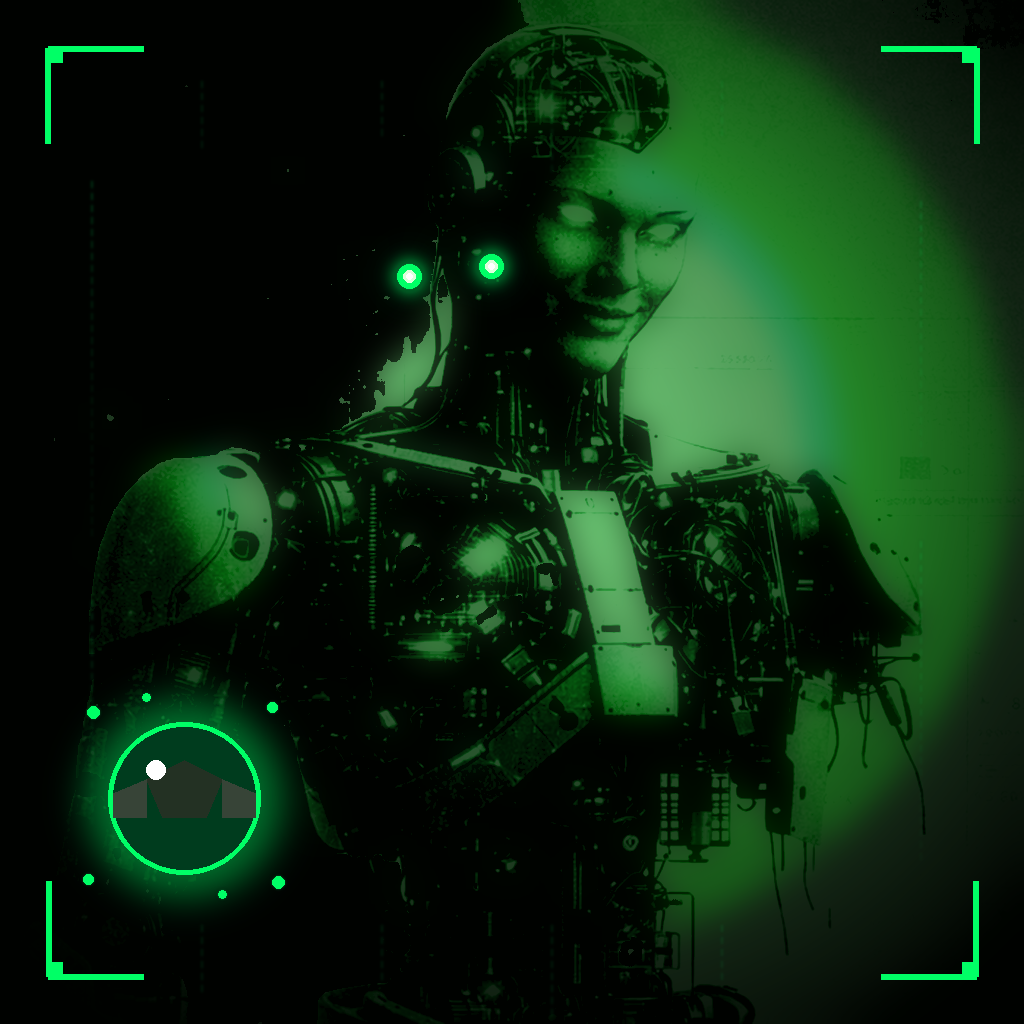
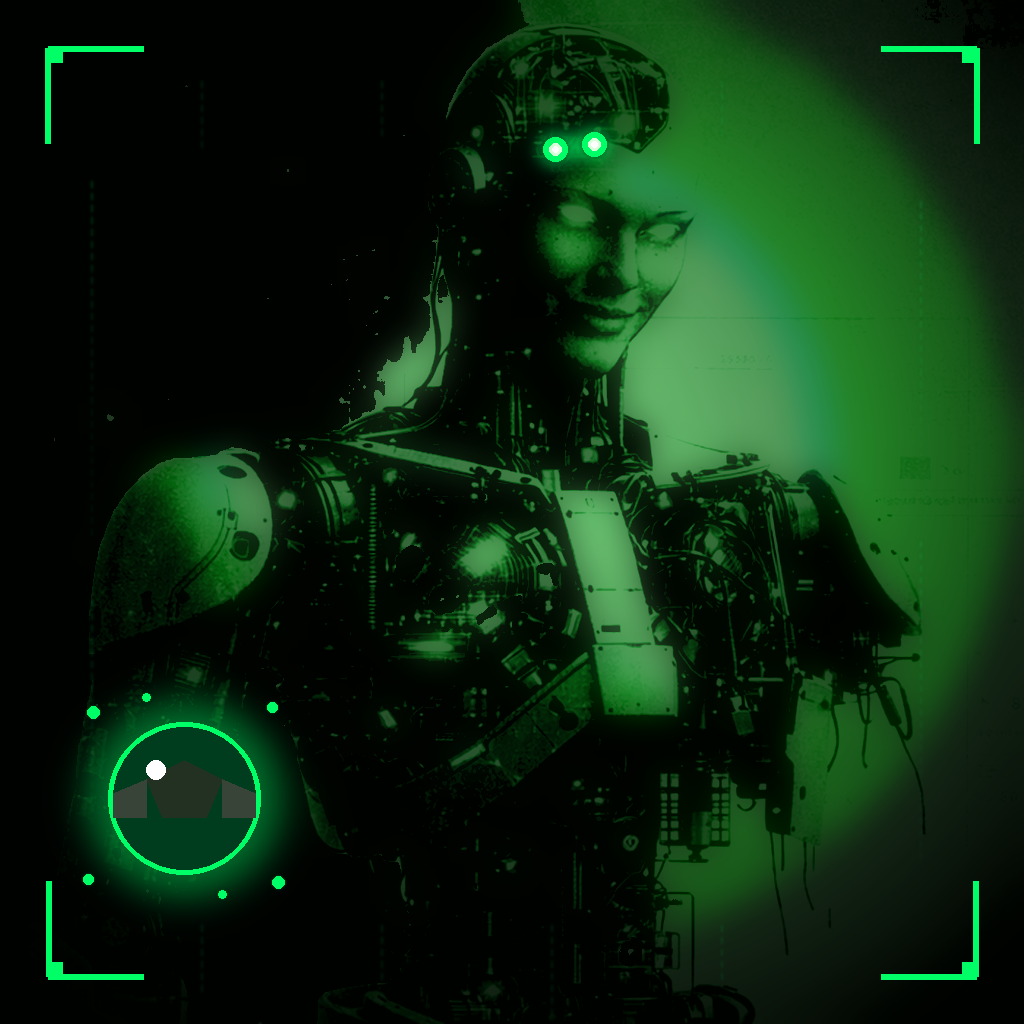
Calibration yeux robot : LEDs maintenant pile sur les yeux (coords 0.54/0.58 x 0.14/0.146)

Changed region(s): [[0.375, 0.2188, 0.5, 0.3125], [0.5, 0.0938, 0.5938, 0.1875]]

diff --git a/icons/generate_icons.py b/icons/generate_icons.py
@@ -102,10 +102,11 @@ def _enhance_eyes(img: Image.Image) -> Image.Image:
     out = img.convert("RGBA")
     w, h = out.size
 
-    # Coordonnées approximatives des yeux (estimation sur l'image source AVIF)
-    # À ajuster si décalé : ce sont 2 points sur le visage du robot
-    eye_left = (int(w * 0.40), int(h * 0.27))
-    eye_right = (int(w * 0.48), int(h * 0.26))
+    # Coordonnées des yeux du robot (calibrées sur image debug grille 1024×1024)
+    # Œil gauche du robot (le plus visible, notre droite de l'image inversée) ≈ (555, 150)
+    # Œil droit du robot (partiellement masqué par l'angle 3/4) ≈ (595, 145)
+    eye_left = (int(w * 0.542), int(h * 0.146))
+    eye_right = (int(w * 0.581), int(h * 0.141))
 
     # Couche 1 : Halo très large vert (atmosphère)
     halo_far = Image.new("RGBA", (w, h), (0, 0, 0, 0))
